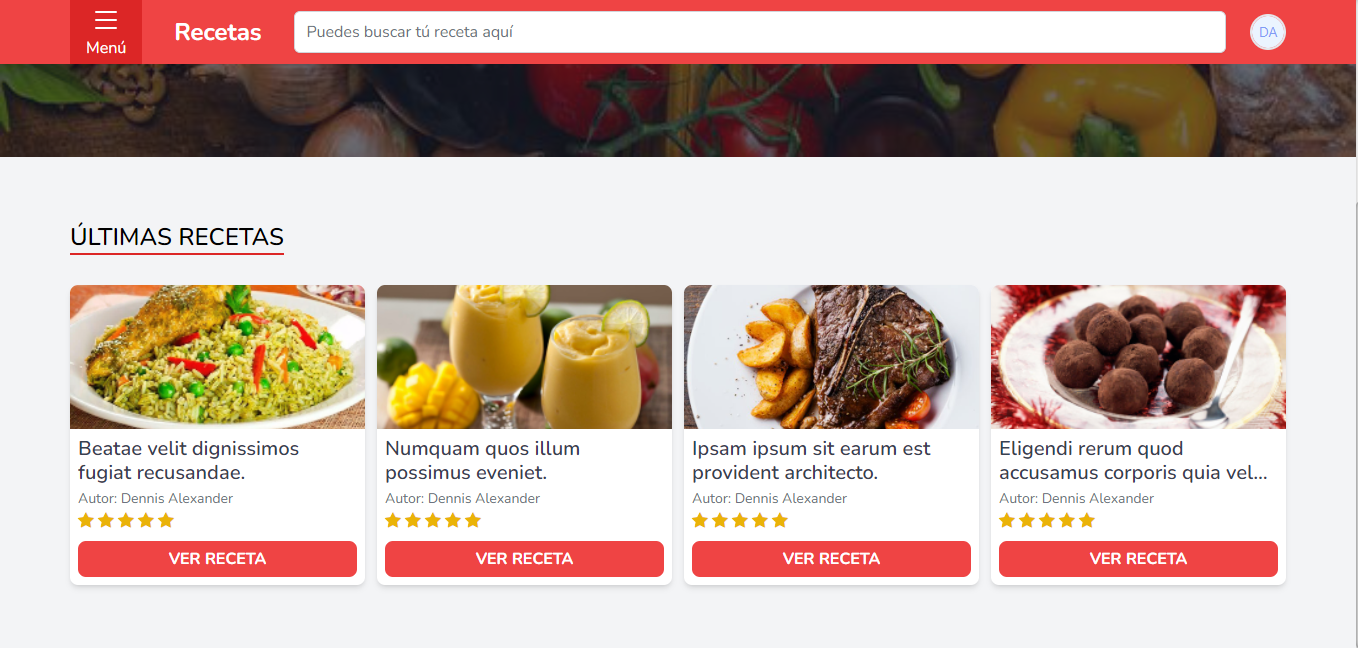
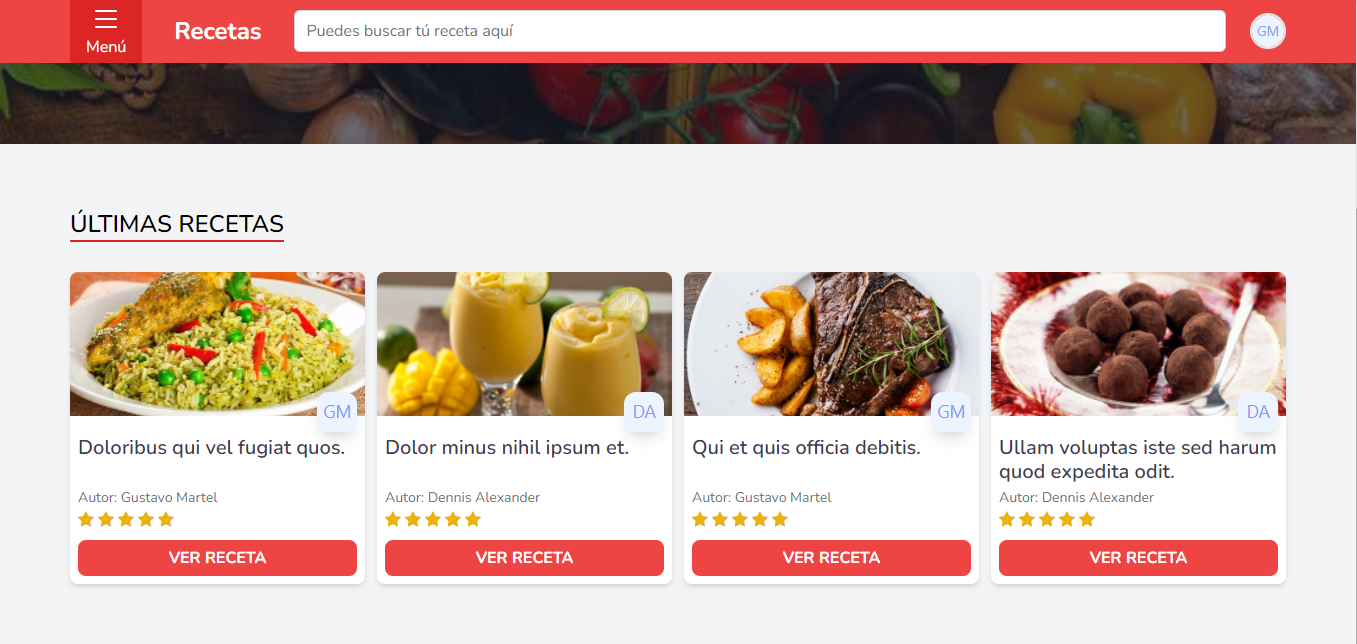
cambios visuales en card de productos y efecto skeleton

diff --git a/public/css/app.css b/public/css/app.css
@@ -1005,6 +1005,9 @@ select {
 .col-span-6 {
   grid-column: span 6 / span 6;
 }
+.float-right {
+  float: right;
+}
 .mx-auto {
   margin-left: auto;
   margin-right: auto;
@@ -1078,14 +1081,20 @@ select {
 .mb-4 {
   margin-bottom: 1rem;
 }
+.-mt-8 {
+  margin-top: -2rem;
+}
+.mb-1 {
+  margin-bottom: 0.25rem;
+}
+.mb-2 {
+  margin-bottom: 0.5rem;
+}
 .-mt-px {
   margin-top: -1px;
 }
 .mb-16 {
   margin-bottom: 4rem;
-}
-.mb-1 {
-  margin-bottom: 0.25rem;
 }
 .mt-auto {
   margin-top: auto;
@@ -1114,9 +1123,6 @@ select {
 .hidden {
   display: none;
 }
-.aspect-square {
-  aspect-ratio: 1 / 1;
-}
 .h-5 {
   height: 1.25rem;
 }
@@ -1144,14 +1150,17 @@ select {
 .h-20 {
   height: 5rem;
 }
+.h-36 {
+  height: 9rem;
+}
+.h-2 {
+  height: 0.5rem;
+}
 .h-96 {
   height: 24rem;
 }
 .h-full {
   height: 100%;
-}
-.h-36 {
-  height: 9rem;
 }
 .min-h-screen {
   min-height: 100vh;
@@ -1216,6 +1225,9 @@ select {
 .max-w-xl {
   max-width: 36rem;
 }
+.max-w-sm {
+  max-width: 24rem;
+}
 .max-w-6xl {
   max-width: 72rem;
 }
@@ -1255,6 +1267,22 @@ select {
 .transform {
   transform: translate(var(--tw-translate-x), var(--tw-translate-y)) rotate(var(--tw-rotate)) skewX(var(--tw-skew-x)) skewY(var(--tw-skew-y)) scaleX(var(--tw-scale-x)) scaleY(var(--tw-scale-y));
 }
+@-webkit-keyframes pulse {
+
+  50% {
+    opacity: .5;
+  }
+}
+@keyframes pulse {
+
+  50% {
+    opacity: .5;
+  }
+}
+.animate-pulse {
+  -webkit-animation: pulse 2s cubic-bezier(0.4, 0, 0.6, 1) infinite;
+          animation: pulse 2s cubic-bezier(0.4, 0, 0.6, 1) infinite;
+}
 .cursor-default {
   cursor: default;
 }
@@ -1278,9 +1306,6 @@ select {
 }
 .grid-cols-1 {
   grid-template-columns: repeat(1, minmax(0, 1fr));
-}
-.grid-cols-2 {
-  grid-template-columns: repeat(2, minmax(0, 1fr));
 }
 .grid-cols-4 {
   grid-template-columns: repeat(4, minmax(0, 1fr));
@@ -1336,6 +1361,9 @@ select {
   margin-top: calc(1.5rem * calc(1 - var(--tw-space-y-reverse)));
   margin-bottom: calc(1.5rem * var(--tw-space-y-reverse));
 }
+.self-end {
+  align-self: flex-end;
+}
 .overflow-hidden {
   overflow: hidden;
 }
@@ -1361,6 +1389,9 @@ select {
 }
 .rounded-full {
   border-radius: 9999px;
+}
+.rounded-xl {
+  border-radius: 0.75rem;
 }
 .rounded-l-md {
   border-top-left-radius: 0.375rem;
@@ -1457,6 +1488,10 @@ select {
 .bg-gray-200 {
   --tw-bg-opacity: 1;
   background-color: rgb(229 231 235 / var(--tw-bg-opacity));
+}
+.bg-gray-400 {
+  --tw-bg-opacity: 1;
+  background-color: rgb(156 163 175 / var(--tw-bg-opacity));
 }
 .bg-gray-900 {
   --tw-bg-opacity: 1;

diff --git a/resources/views/components/recipe-card.blade.php b/resources/views/components/recipe-card.blade.php
@@ -5,8 +5,11 @@
         <img src="{{ Storage::url($recipe->images->pluck('url')[0]) }}" alt="{{ $recipe->name }}" class="h-36 w-full object-cover object-center">
     </figure>
     <div class="px-2 py-2 flex flex-col flex-1">
+        <div class="self-end float-right -mt-8 mb-1">
+            <img class="h-10 w-10 rounded-xl object-cover shadow-lg" src="{{ $recipe->author->profile_photo_url }}" alt="">
+        </div>
         <h1 class="text-xl text-gray-700 font-semibold leading-6 mb-1 line-clamp-2">{{ $recipe->name }}</h1>
-        <p class="text-gray-500 text-sm mt-auto truncate">Autor: Dennis Alexander</p>
+        <p class="text-gray-500 text-sm mt-auto truncate">Autor: {{ $recipe->author->name }}</p>
         <ul class="flex">
             <li class="mr-1">
                 <i class="bi bi-star-fill text-{{ $recipe->rating >= 1 ? 'yellow' : 'gray' }}-500"></i>

diff --git a/resources/views/components/skeleton.blade.php b/resources/views/components/skeleton.blade.php
@@ -1,0 +1,14 @@
+<div class="border border-gray-300 shadow rounded-md max-w-sm w-full mx-auto overflow-hidden">
+    <div class="animate-pulse flex flex-col flex-1">
+        <div class="bg-gray-500 h-36 w-full"></div>
+        <div class="flex flex-col flex-1 px-2 py-2">
+            <div class="self-end float-right -mt-8 mb-1">
+                <div class="h-10 w-10 rounded-xl bg-gray-400 shadow-lg"></div>
+            </div>
+            <div class="h-8 bg-gray-500 rounded-md mb-2"></div>
+            <div class="h-4 bg-gray-500 rounded-md mb-2 w-3/4"></div>
+            <div class="h-2 bg-gray-500 rounded-md mb-2 w-1/2"></div>
+            <div class="h-8 bg-gray-500 rounded-md mb-2"></div>
+        </div>
+    </div>
+</div>

diff --git a/database/migrations/2022_05_21_014805_create_recipes_table.php b/database/migrations/2022_05_21_014805_create_recipes_table.php
@@ -19,11 +19,15 @@ return new class extends Migration
             $table->string('name');
             $table->string('slug');
             $table->text('description');
+            $table->longText('preparation');
             $table->enum('status', [Recipe::BORRADOR, Recipe::PUBLICADO])->default(Recipe::BORRADOR);
 
             $table->unsignedBigInteger('subcategory_id');
+            $table->unsignedBigInteger('user_id');
             
             $table->foreign('subcategory_id')->references('id')->on('subcategories');
+            $table->foreign('user_id')->references('id')->on('users')->onDelete('cascade');
+
             $table->timestamps();
         });
     }

diff --git a/resources/views/livewire/recipes.blade.php b/resources/views/livewire/recipes.blade.php
@@ -1,7 +1,13 @@
-<div class="mt-8">
-    <div class="grid grid-cols-2 sm:grid-cols-2 md:grid-cols-3 lg:grid-cols-4 gap-3">
-        @foreach ($recipes as $recipe)
-            <x-recipe-card :recipe="$recipe"/>
-        @endforeach
+<div class="mt-8" wire:init="loadRecipe">
+    <div class="grid grid-cols-1 sm:grid-cols-2 md:grid-cols-3 lg:grid-cols-4 gap-3">
+        @if (count($recipes) > 0)
+            @foreach ($recipes as $recipe)
+                <x-recipe-card :recipe="$recipe" />
+            @endforeach
+        @else
+            @for ($i = 0; $i < 4; $i++)
+                <x-skeleton />
+            @endfor
+        @endif
     </div>
 </div>

diff --git a/app/Http/Livewire/Recipes.php b/app/Http/Livewire/Recipes.php
@@ -7,9 +7,20 @@ use Livewire\Component;
 
 class Recipes extends Component
 {
+    public $loadRecipes = false;
+
+    public function loadRecipe()
+    {
+        $this->loadRecipes = true;
+    }
+
     public function render()
     {
-        $recipes = Recipe::where('status', Recipe::PUBLICADO)->latest('id')->take(4)->get();
+        if ($this->loadRecipes) {
+            $recipes = Recipe::where('status', Recipe::PUBLICADO)->latest('id')->take(4)->get();
+        } else {
+            $recipes = [];
+        }
 
         return view('livewire.recipes', compact('recipes'));
     }

diff --git a/database/seeders/DatabaseSeeder.php b/database/seeders/DatabaseSeeder.php
@@ -23,8 +23,8 @@ class DatabaseSeeder extends Seeder
         //     'email' => 'test@example.com',
         // ]);
 
-        Storage::deleteDirectory('recipes');
-        Storage::makeDirectory('recipes');
+        // Storage::deleteDirectory('recipes');
+        // Storage::makeDirectory('recipes');
 
         $this->call(UserSeeder::class);
         $this->call(CategorySeeder::class);

diff --git a/database/factories/RecipeFactory.php b/database/factories/RecipeFactory.php
@@ -28,6 +28,9 @@ class RecipeFactory extends Factory
             'description' => $this->faker->text(),
             'status' => Recipe::PUBLICADO,
             'subcategory_id' => $subcategory->id,
+            'description' => $this->faker->text(),
+            'preparation' => $this->faker->sentence(15),
+            'user_id' => 1,
         ];
     }
 }

diff --git a/app/Models/Recipe.php b/app/Models/Recipe.php
@@ -37,4 +37,9 @@ class Recipe extends Model
     {
         return $this->morphMany(Image::class, 'imageable');
     }
+
+    public function author()
+    {
+        return $this->belongsTo(User::class, 'user_id');
+    }
 }

diff --git a/app/Models/User.php b/app/Models/User.php
@@ -58,4 +58,9 @@ class User extends Authenticatable
     protected $appends = [
         'profile_photo_url',
     ];
+
+    public function recipes()
+    {
+        return $this->hasMany(Recipe::class);
+    }
 }
